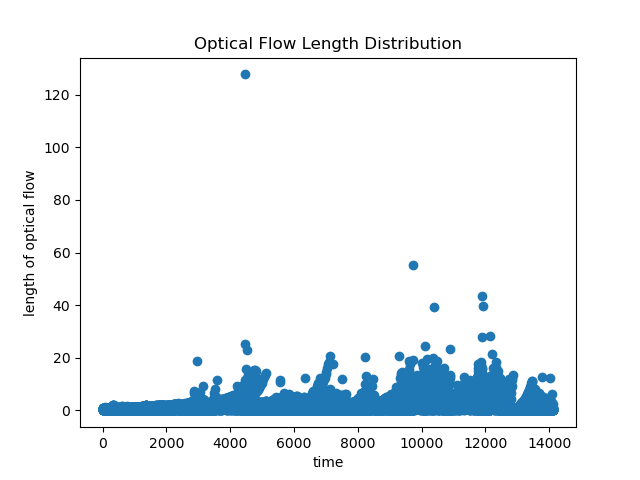
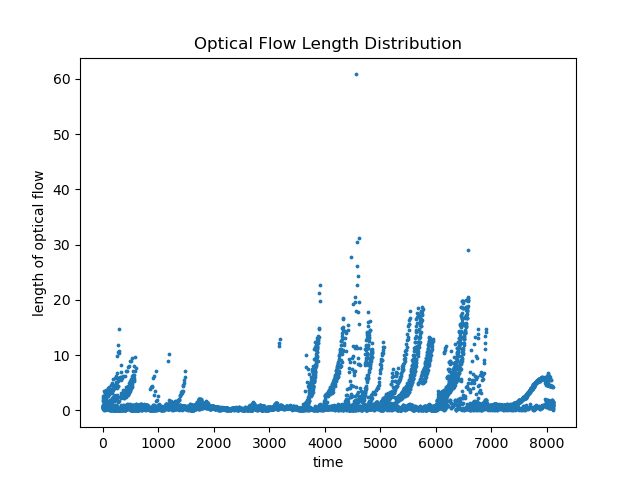
adjustable mask

diff --git a/LK_with_line_sement_classification.py b/LK_with_line_sement_classification.py
@@ -4,8 +4,9 @@ resource : https://github.com/opencv/opencv/blob/3.4/samples/python/tutorial_cod
 
 from cProfile import label
 from itertools import count
+from turtle import st
 from cv2 import waitKey
-from matplotlib.pyplot import plot
+from matplotlib.pyplot import draw, plot
 import numpy as np
 import cv2 as cv
 import argparse
@@ -37,8 +38,8 @@ if not cap.isOpened():
 # params for ShiTomasi corner detection
 feature_params = dict( maxCorners = NumOfDot,
                        qualityLevel = 0.3,
-                       minDistance = 30,
-                    #    minDistance = 7,
+                    #    minDistance = 30,
+                       minDistance = 7,
                        blockSize = 7 )
 
 # Parameters for lucas kanade optical flow
@@ -86,7 +87,14 @@ class Line:
         print(str(self.length) + '\t\t' + str(self.angle))
         # print(str(self.start) + '\t\t'  + str(self.stop) + '\t\t'  + str(self.vector) + '\t\t' + str(self.length) + '\t\t' + str(self.angle))
 
-
+def checkInside(pt, mask = []):
+    status = []
+    for id in range(len(pt)):
+        # print(pt[id,0,0], pt[id,0,1])
+        status.append([mask[int(pt[id,0,1]), int(pt[id,0,0])] > 0])
+    
+    return np.array(status)
+    
 # Take first frame and find corners in it
 def Run():
     ret, old_frame = cap.read()
@@ -108,25 +116,38 @@ def Run():
         innerR= int(Wid*0.55),
         innerD= int(Hei*0.55),
     )
-
+    
     # cut a mask
-    adj_old_frame = np.zeros(((bounds["outerD"]-bounds["outerU"]), (bounds["outerR"]-bounds["outerL"]), 3), dtype=np.uint8)
+    mask = np.zeros(old_frame.shape[:2], dtype=np.uint8)
+    mask = cv.fillPoly(mask, [np.array([[bounds["outerL"], bounds["outerU"]], 
+                                        [bounds["outerL"], bounds["outerD"]], 
+                                        [bounds["outerR"], bounds["outerD"]], 
+                                        [bounds["outerR"], bounds["outerU"]], 
+                                        [bounds["innerR"], bounds["innerU"]], 
+                                        [bounds["innerL"], bounds["innerU"]]])], 255)
+    # mask = cv.rectangle(mask, (bounds["outerL"], bounds["outerU"]), (bounds["outerR"], bounds["outerD"]), 255, -1)
+    cv.imshow('frame', mask)
+    waitKey(0)
+    # adj_old_frame = np.zeros(((bounds["outerD"]-bounds["outerU"]), (bounds["outerR"]-bounds["outerL"]), 3), dtype=np.uint8)
 
-    for i in range(adj_old_frame.shape[0]):
-        if i > bounds["innerU"]-bounds["outerU"] and i < bounds["innerD"]-bounds["outerU"]:
-            adj_old_frame[i][: bounds["innerL"]-bounds["outerL"]] = old_frame[i+bounds["outerU"]][bounds["outerL"] : bounds["innerL"]]
-            adj_old_frame[i][bounds["innerR"]-bounds["outerL"] :] = old_frame[i+bounds["outerU"]][bounds["innerR"] : bounds["outerR"]]
-        else:
-            adj_old_frame[i][:] = old_frame[i+bounds["outerU"]][bounds["outerL"] : bounds["outerR"]]
+    # for i in range(adj_old_frame.shape[0]):
+    #     if i > bounds["innerU"]-bounds["outerU"] and i < bounds["innerD"]-bounds["outerU"]:
+    #         adj_old_frame[i][: bounds["innerL"]-bounds["outerL"]] = old_frame[i+bounds["outerU"]][bounds["outerL"] : bounds["innerL"]]
+    #         adj_old_frame[i][bounds["innerR"]-bounds["outerL"] :] = old_frame[i+bounds["outerU"]][bounds["innerR"] : bounds["outerR"]]
+    #     else:
+    #         adj_old_frame[i][:] = old_frame[i+bounds["outerU"]][bounds["outerL"] : bounds["outerR"]]
 
-    old_gray = cv.cvtColor(adj_old_frame, cv.COLOR_BGR2GRAY)
-    p0 = cv.goodFeaturesToTrack(old_gray, mask = None, **feature_params)
+    # old_gray = cv.cvtColor(adj_old_frame, cv.COLOR_BGR2GRAY)
+
+    old_gray = cv.cvtColor(old_frame, cv.COLOR_BGR2GRAY)
+    print(old_gray.shape, mask.shape)
+    p0 = cv.goodFeaturesToTrack(old_gray, mask = mask, **feature_params)
 
     # Create a mask image for drawing purposes
     draw_mask = np.zeros_like(old_frame)
     lines = []
     lengths = []
-    count = 0
+    # count = 0
 
     while(1):
         ret, frame = cap.read()
@@ -138,44 +159,78 @@ def Run():
 
         frame = imutils.resize(frame, width=int(Wid))
 
-        adj_frame = np.zeros(((bounds["outerD"]-bounds["outerU"]), (bounds["outerR"]-bounds["outerL"]), 3), dtype=np.uint8)
+        # adj_frame = np.zeros(((bounds["outerD"]-bounds["outerU"]), (bounds["outerR"]-bounds["outerL"]), 3), dtype=np.uint8)
     
-        for i in range(adj_frame.shape[0]):
-            if i > bounds["innerU"]-bounds["outerU"] and i < bounds["innerD"]-bounds["outerU"]:
-                adj_frame[i][: bounds["innerL"]-bounds["outerL"]] = frame[i+bounds["outerU"]][bounds["outerL"] : bounds["innerL"]]
-                adj_frame[i][bounds["innerR"]-bounds["outerL"] :] = frame[i+bounds["outerU"]][bounds["innerR"] : bounds["outerR"]]
-            else:
-                adj_frame[i][:] = frame[i+bounds["outerU"]][bounds["outerL"] : bounds["outerR"]]
+        # for i in range(adj_frame.shape[0]):
+        #     if i > bounds["innerU"]-bounds["outerU"] and i < bounds["innerD"]-bounds["outerU"]:
+        #         adj_frame[i][: bounds["innerL"]-bounds["outerL"]] = frame[i+bounds["outerU"]][bounds["outerL"] : bounds["innerL"]]
+        #         adj_frame[i][bounds["innerR"]-bounds["outerL"] :] = frame[i+bounds["outerU"]][bounds["innerR"] : bounds["outerR"]]
+        #     else:
+        #         adj_frame[i][:] = frame[i+bounds["outerU"]][bounds["outerL"] : bounds["outerR"]]
 
-        frame_gray = cv.cvtColor(adj_frame, cv.COLOR_BGR2GRAY)
+        # frame_gray = cv.cvtColor(adj_frame, cv.COLOR_BGR2GRAY)
+        
+        frame_gray = cv.cvtColor(frame, cv.COLOR_BGR2GRAY)
 
         # calculate optical flow
         p1, st, err = cv.calcOpticalFlowPyrLK(old_gray, frame_gray, p0, None, **lk_params)
 
+        # print(p0)
+        # print(p1)
+        # print(st)
+        # print("\n\n")
+
         # Select good points
         if p1 is not None:
+            # st[~isInside(p1, bounds)] = 0
+            # print(p0)
+            # print(p1)
+            # print(st)
+            # print(st.shape)
+            filter = checkInside(p1, mask)
+            # print(filter)
+            # print(filter.shape)
+            st[~filter] = 0
+
+            # st[p1[:,:,0] < bounds["outerL"]] = 0
+            # st[p1[:,:,0] > bounds["outerR"]] = 0
+            # st[p1[:,:,1] < bounds["outerU"]] = 0
+            # st[p1[:,:,1] > bounds["outerD"]] = 0
+            # print(st)
             good_new = p1[st==1]
             good_old = p0[st==1]
 
+        # print(good_new, good_old)
         # draw the tracks
         for i, (new, old) in enumerate(zip(good_new, good_old)):
             a, b = new.ravel()
             c, d = old.ravel()
-            draw_mask = cv.line(draw_mask, (int(a+bounds["outerL"]), int(b+bounds["outerU"])), (int(c+bounds["outerL"]), int(d+bounds["outerU"])), color[i].tolist(), 2)
-            frame = cv.circle(frame, (int(a+bounds["outerL"]), int(b+bounds["outerU"])), 5, color[i].tolist(), -1)
+            # print((a, b), (c, d))
+            draw_mask = cv.line(draw_mask, (int(a), int(b)), (int(c), int(d)), color[i].tolist(), 2)
+            frame = cv.circle(frame, (int(a), int(b)), 5, color[i].tolist(), -1)
+            # draw_mask = cv.line(draw_mask, (int(a+bounds["outerL"]), int(b+bounds["outerU"])), (int(c+bounds["outerL"]), int(d+bounds["outerU"])), color[i].tolist(), 2)
+            # frame = cv.circle(frame, (int(a+bounds["outerL"]), int(b+bounds["outerU"])), 5, color[i].tolist(), -1)
+
             new_line = Line([c, d], [a, b])
             lines.append(new_line)
             lengths.append(lines[-1].length)
 
-        frame = cv.rectangle(frame, (bounds["outerL"], bounds["outerU"]), (bounds["outerR"], bounds["outerD"]), (0, 200, 0), 3)
-        frame = cv.rectangle(frame, (bounds["innerL"], bounds["innerU"]), (bounds["innerR"], bounds["innerD"]), (0, 0, 200), 3)
+        # frame = cv.rectangle(frame, (bounds["outerL"], bounds["outerU"]), (bounds["outerR"], bounds["outerD"]), (0, 200, 0), 3)
+        frame = cv.polylines(frame,  [np.array([[bounds["outerL"], bounds["outerU"]], 
+                                                [bounds["outerL"], bounds["outerD"]], 
+                                                [bounds["outerR"], bounds["outerD"]], 
+                                                [bounds["outerR"], bounds["outerU"]], 
+                                                [bounds["innerR"], bounds["innerU"]], 
+                                                [bounds["innerL"], bounds["innerU"]], 
+                                                [bounds["outerL"], bounds["outerU"]]])], False, (0, 0, 200), 3)
+        # frame = cv.rectangle(frame, (bounds["innerL"], bounds["innerU"]), (bounds["innerR"], bounds["innerD"]), (0, 0, 200), 3)
         img = cv.add(frame, draw_mask)
         
         cv.imshow('frame', img)
         # for ele in lines:
         #     ele.get_info()
 
-        # k = waitKey(0)
+        # k = cv.waitKey(0) & 0xff
         k = cv.waitKey(30) & 0xff
         if k == 27:
             cv.destroyAllWindows()
@@ -186,18 +241,23 @@ def Run():
         
         old_gray = frame_gray.copy()
         p0 = good_new.reshape(-1, 1, 2)
-        count += 1
-
-        # if p1 is None or (len(p1) < NumOfDot/2) :
-        if count >= 30:
+        # count += 1
+        print(len(p0))
+        if len(p0) < NumOfDot/4 :
+        # if count >= 30:
             # print(count)
-            count = 0
-            new = cv.goodFeaturesToTrack(old_gray, mask = None, **feature_params)
+            # count = 0
+            new = cv.goodFeaturesToTrack(old_gray, mask = mask, **feature_params)
+            if new is None:
+                print("\t+ 0")
+                continue
+            
+            print("\t+", str(len(new)))
             # print(new.shape, new)
             # print(p0.shape, p0)
             p0 = np.append(p0, new).reshape(-1, 1, 2)
             # print(p0.shape, p0)
-            if (len(p0)>NumOfDot) :
+            if (len(p0) > NumOfDot) :
                 p0 = p0[-NumOfDot:]
     
     # d = []
@@ -215,7 +275,7 @@ def Run():
     plt.title("Optical Flow Length Distribution")
     plt.xlabel("time")
     plt.ylabel("length of optical flow")
-    plt.scatter(range(len(lengths)), lengths)
+    plt.scatter(range(len(lengths)), lengths, 3)
     # fig, (ax1, ax2) = plt.subplots(1, 2)
     # for id, ele in enumerate(lines):
     #     if (ele.length < 20):
